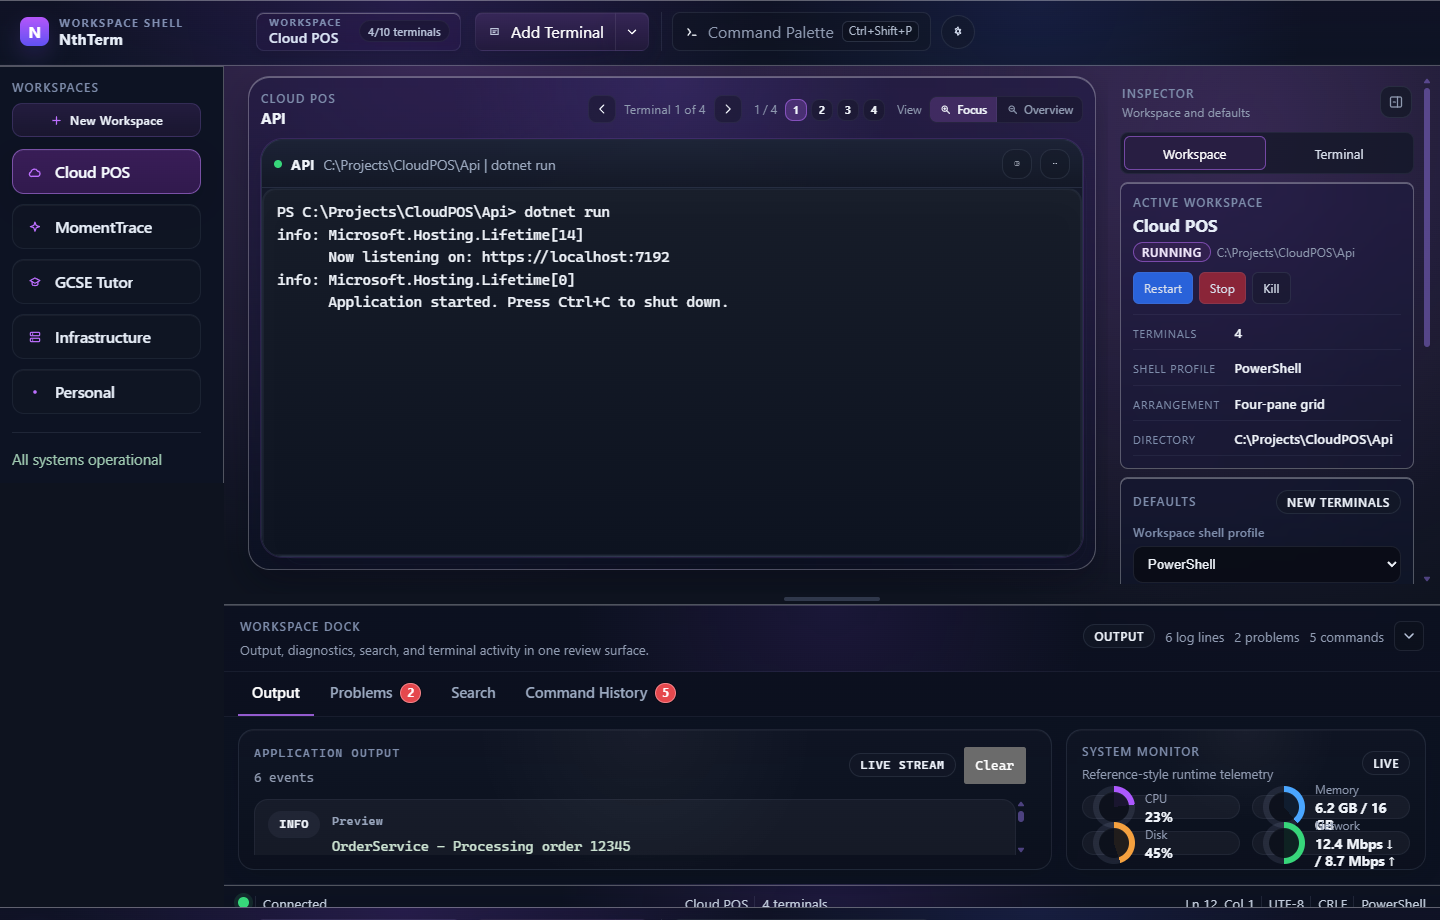
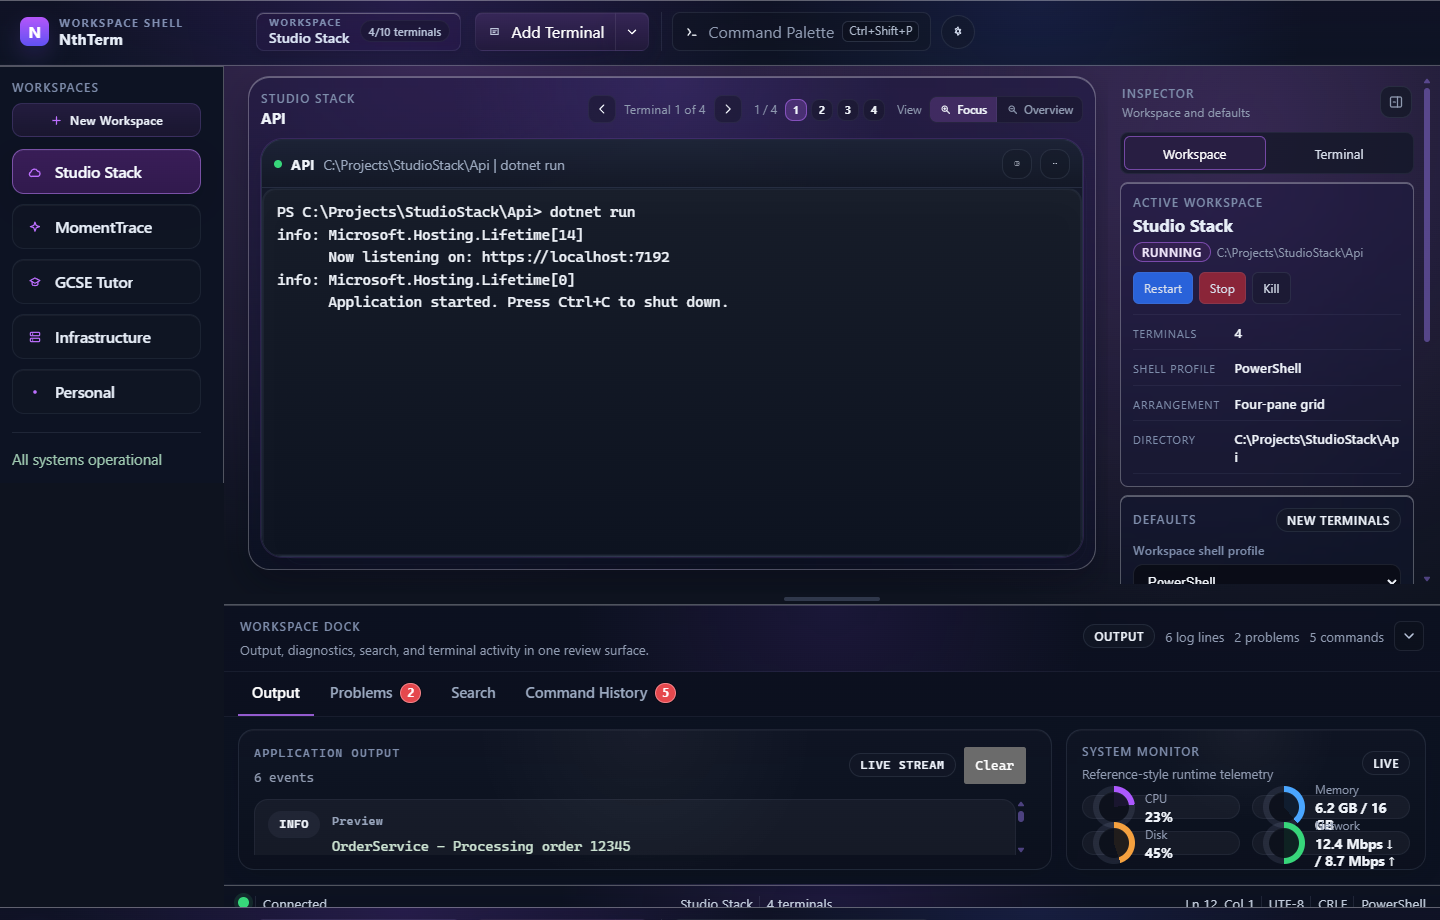
Replace Cloud POS preview branding with Studio Stack.
Update reference-preview seeding and landing Focus/Overview screenshots so marketing no longer shows a work project name.

diff --git a/src/app/workspace/workspace-runtime.service.ts b/src/app/workspace/workspace-runtime.service.ts
@@ -757,7 +757,7 @@ export class WorkspaceRuntimeService {
           return 'main • 7192';
         case 'npm start':
           return 'main • 4200';
-        case 'docker exec -it cloudpos-db psql -U postgres':
+        case 'docker exec -it studio-db psql -U postgres':
           return 'local • 5432';
         case 'docker compose ps':
           return 'up • 4 containers';
@@ -801,7 +801,7 @@ export class WorkspaceRuntimeService {
     switch (terminal.id) {
       case 'terminal-1':
         return [
-          'PS C:\\Projects\\CloudPOS\\Api> dotnet run',
+          'PS C:\\Projects\\StudioStack\\Api> dotnet run',
           'info: Microsoft.Hosting.Lifetime[14]',
           '      Now listening on: https://localhost:7192',
           'info: Microsoft.Hosting.Lifetime[0]',
@@ -809,21 +809,21 @@ export class WorkspaceRuntimeService {
         ].join('\n');
       case 'terminal-2':
         return [
-          'PS C:\\Projects\\CloudPOS\\Angular> npm start',
+          'PS C:\\Projects\\StudioStack\\Angular> npm start',
           '> ng serve',
           '** Angular Live Development Server is listening on localhost:4200 **',
         ].join('\n');
       case 'terminal-3':
         return [
-          'PS C:\\> docker exec -it cloudpos-db psql -U postgres',
+          'PS C:\\> docker exec -it studio-db psql -U postgres',
           'postgres=# \\dt',
           '(4 rows)',
         ].join('\n');
       case 'terminal-4':
         return [
-          'PS C:\\Projects\\CloudPOS> docker compose ps',
-          'api       cloudpos-api       Up 4 mins   0.0.0.0:5192->5192',
-          'angular   cloudpos-angular   Up 4 mins   0.0.0.0:4200->4200',
+          'PS C:\\Projects\\StudioStack> docker compose ps',
+          'api       studio-api       Up 4 mins   0.0.0.0:5192->5192',
+          'angular   studio-angular   Up 4 mins   0.0.0.0:4200->4200',
         ].join('\n');
       default:
         return `PS ${terminal.cwd}>`;
@@ -838,37 +838,37 @@ export class WorkspaceRuntimeService {
     this.previewMode = true;
     this.status = 'Reference preview mode';
     this.workspaces = [
-      { id: 'ws-cloud-pos', name: 'Cloud POS', icon: 'cloud', accent: 'violet' },
+      { id: 'ws-studio-stack', name: 'Studio Stack', icon: 'cloud', accent: 'violet' },
       { id: 'ws-moment-trace', name: 'MomentTrace', icon: 'spark', accent: 'slate' },
       { id: 'ws-gcse-tutor', name: 'GCSE Tutor', icon: 'cap', accent: 'slate' },
       { id: 'ws-infrastructure', name: 'Infrastructure', icon: 'server', accent: 'slate' },
       { id: 'ws-personal', name: 'Personal', icon: 'person', accent: 'slate' },
     ];
-    this.selectedWorkspaceId = 'ws-cloud-pos';
+    this.selectedWorkspaceId = 'ws-studio-stack';
 
     const previewTerminals = [
       {
         id: 'terminal-1',
         name: 'API',
-        cwd: 'C:\\Projects\\CloudPOS\\Api',
+        cwd: 'C:\\Projects\\StudioStack\\Api',
         startupCommand: 'dotnet run',
       },
       {
         id: 'terminal-2',
         name: 'Angular',
-        cwd: 'C:\\Projects\\CloudPOS\\Angular',
+        cwd: 'C:\\Projects\\StudioStack\\Angular',
         startupCommand: 'npm start',
       },
       {
         id: 'terminal-3',
         name: 'Database',
         cwd: 'C:\\',
-        startupCommand: 'docker exec -it cloudpos-db psql -U postgres',
+        startupCommand: 'docker exec -it studio-db psql -U postgres',
       },
       {
         id: 'terminal-4',
         name: 'Docker',
-        cwd: 'C:\\Projects\\CloudPOS',
+        cwd: 'C:\\Projects\\StudioStack',
         startupCommand: 'docker compose ps',
       },
     ].map((item) => ({
@@ -882,9 +882,9 @@ export class WorkspaceRuntimeService {
     }));
 
     const workspace: SavedWorkspace = {
-      id: 'ws-cloud-pos',
-      name: 'Cloud POS',
-      cwd: 'C:\\Projects\\CloudPOS\\Api',
+      id: 'ws-studio-stack',
+      name: 'Studio Stack',
+      cwd: 'C:\\Projects\\StudioStack\\Api',
       shell: 'powershell',
       templateId: 'full-stack',
       icon: 'cloud',

diff --git a/src/app/inspector/inspector-presenter.service.spec.ts b/src/app/inspector/inspector-presenter.service.spec.ts
@@ -9,7 +9,7 @@ describe('InspectorPresenterService', () => {
   const workspaceService = {
     previewMode: false,
     workingDirectory: 'C:/repo',
-    workspaceName: 'Cloud POS',
+    workspaceName: 'Studio Stack',
     activeWorkspace: { templateId: 'api' },
     layoutMode: 'grid-2',
     focusedPaneId: 'pane-1',
@@ -77,7 +77,7 @@ describe('InspectorPresenterService', () => {
     const items = service.getInspectorItems();
     const summary = service.getInspectorSummaryItems();
 
-    expect(items[0]).toEqual({ label: 'Workspace', value: 'Cloud POS' });
+    expect(items[0]).toEqual({ label: 'Workspace', value: 'Studio Stack' });
     expect(items.find((item) => item.label === 'Terminals')?.value).toBe('1');
     expect(items.find((item) => item.label === 'Last Saved')?.value).toBe(
       'ts:2026-07-01T08:15:00.000Z'
@@ -93,7 +93,7 @@ describe('InspectorPresenterService', () => {
     const items = service.getInspectorItems();
     const summary = service.getInspectorSummaryItems();
 
-    expect(items[0]).toEqual({ label: 'Workspace', value: 'Cloud POS' });
+    expect(items[0]).toEqual({ label: 'Workspace', value: 'Studio Stack' });
     expect(items.find((item) => item.label === 'Shell Profile')?.value).toBe('PowerShell');
     expect(items.find((item) => item.label === 'Last Saved')?.value).toBe(
       'ts:2026-07-01T08:15:00.000Z'

diff --git a/src/app/workspace/workspace-area.component.spec.ts b/src/app/workspace/workspace-area.component.spec.ts
@@ -23,9 +23,9 @@ describe('WorkspaceAreaComponent', () => {
   };
 
   const workspaceService = {
-    selectedWorkspace: 'Cloud POS',
+    selectedWorkspace: 'Studio Stack',
     selectedWorkspaceId: 'workspace-1',
-    workspaceName: 'Cloud POS',
+    workspaceName: 'Studio Stack',
     terminals: [runtimeTerminal],
     layoutMode: 'grid-2',
     paneResizeMode: null,
@@ -88,7 +88,7 @@ describe('WorkspaceAreaComponent', () => {
       { value: 'cmd', label: 'Command Prompt' },
       { value: 'wsl:Ubuntu', label: 'WSL: Ubuntu' },
     ],
-    getCommandHistorySource: () => 'Cloud POS • API Server',
+    getCommandHistorySource: () => 'Studio Stack • API Server',
   };
 
   const terminalService = {
@@ -144,7 +144,7 @@ describe('WorkspaceAreaComponent', () => {
             { label: 'Recovery', value: 'Live session' },
           ]
         : [
-            { label: 'Workspace', value: 'Cloud POS' },
+            { label: 'Workspace', value: 'Studio Stack' },
             { label: 'Directory', value: 'C:/repo' },
             { label: 'Shell Profile', value: 'PowerShell' },
             { label: 'Terminals', value: '1' },

diff --git a/src/app/reference/reference-review-content.service.ts b/src/app/reference/reference-review-content.service.ts
@@ -105,7 +105,7 @@ export class ReferenceReviewContentService {
         tabTitle: 'API',
         paneId: 'pane-1',
         shell: 'PowerShell 7.4.2',
-        cwd: 'C:\\Projects\\CloudPOS\\Api',
+        cwd: 'C:\\Projects\\StudioStack\\Api',
         status: 'running',
         reason: 'Session attached',
         startedAt,
@@ -120,7 +120,7 @@ export class ReferenceReviewContentService {
         tabTitle: 'Angular',
         paneId: 'pane-2',
         shell: 'PowerShell 7.4.2',
-        cwd: 'C:\\Projects\\CloudPOS\\Angular',
+        cwd: 'C:\\Projects\\StudioStack\\Angular',
         status: 'running',
         reason: 'Session attached',
         startedAt,
@@ -214,7 +214,7 @@ export class ReferenceReviewContentService {
     return {
       id: 'preview-session-api',
       pid: 18452,
-      cwd: 'C:\\Projects\\CloudPOS\\Api',
+      cwd: 'C:\\Projects\\StudioStack\\Api',
       shell: 'PowerShell 7.4.2',
       status: 'running',
       startedAt: new Date(Date.now() - 12 * 60 * 1000).toISOString(),

diff --git a/src/app/shell-toolbar/shell-toolbar.component.spec.ts b/src/app/shell-toolbar/shell-toolbar.component.spec.ts
@@ -17,8 +17,8 @@ describe('ShellToolbarComponent', () => {
         {
           provide: WorkspaceRuntimeService,
           useValue: {
-            selectedWorkspace: 'Cloud POS',
-            workspaceName: 'Cloud POS',
+            selectedWorkspace: 'Studio Stack',
+            workspaceName: 'Studio Stack',
             layoutMode: 'grid-2x2',
             terminals: activeTerminals,
             getActiveTabTerminals: () => activeTerminals,
@@ -123,7 +123,7 @@ describe('ShellToolbarComponent', () => {
 
     expect(summary).toContain('1/10 terminal');
     expect(context).toContain('Workspace');
-    expect(context).toContain('Cloud POS');
+    expect(context).toContain('Studio Stack');
     expect(context).toContain('1/10 terminal');
     expect(context).not.toContain('Tab');
   });

diff --git a/src/app/command-palette/command-palette.service.spec.ts b/src/app/command-palette/command-palette.service.spec.ts
@@ -17,7 +17,7 @@ describe('CommandPaletteService', () => {
     workspace = TestBed.inject(WorkspaceRuntimeService);
     utility = TestBed.inject(UtilityPanelService);
 
-    workspace.workspaces = [{ id: 'ws-1', name: 'Cloud POS', icon: 'cloud', accent: 'violet' }];
+    workspace.workspaces = [{ id: 'ws-1', name: 'Studio Stack', icon: 'cloud', accent: 'violet' }];
     workspace.terminals = [
       {
         id: 'terminal-1',
@@ -47,7 +47,7 @@ describe('CommandPaletteService', () => {
   });
 
   it('builds search result groups for workspaces, terminals, and commands', () => {
-    utility.searchQuery = 'cloud';
+    utility.searchQuery = 'studio';
     const groups = service.getSearchResultGroups();
     expect(groups.some((group) => group.label === 'Workspaces')).toBeTrue();
 

diff --git a/src/app/bottom-dock/bottom-dock.component.spec.ts b/src/app/bottom-dock/bottom-dock.component.spec.ts
@@ -93,7 +93,7 @@ describe('BottomDockComponent', () => {
             getSearchResultGroups: () => [
               {
                 label: 'Workspaces',
-                items: [{ id: 'ws-1', title: 'Cloud POS', detail: 'Workspace match' }],
+                items: [{ id: 'ws-1', title: 'Studio Stack', detail: 'Workspace match' }],
               },
             ],
             executeSearchResult: async () => undefined,
@@ -159,7 +159,7 @@ describe('BottomDockComponent', () => {
 
     expect(text).toContain('Workspace Search');
     expect(text).toContain('1 matches for "cloud"');
-    expect(text).toContain('Cloud POS');
+    expect(text).toContain('Studio Stack');
   });
 
   it('renders command history entries on the command history panel', () => {

diff --git a/src/app/reference/reference-review-content.service.spec.ts b/src/app/reference/reference-review-content.service.spec.ts
@@ -31,11 +31,11 @@ describe('ReferenceReviewContentService', () => {
     system = TestBed.inject(SystemMonitorService);
   });
 
-  it('seeds the full Cloud POS review state for preview mode', () => {
+  it('seeds the full Studio Stack review state for preview mode', () => {
     service.applyFullPreviewState(workspace, utility, system, terminal);
 
     expect(workspace.previewMode).toBeTrue();
-    expect(workspace.workspaceName).toBe('Cloud POS');
+    expect(workspace.workspaceName).toBe('Studio Stack');
     expect(workspace.terminals.length).toBe(4);
     expect(workspace.sessionHistory.length).toBe(2);
     expect(workspace.recoverySnapshot.lastStopReason).toBe('Clean restore');

diff --git a/src/app/left-rail/left-rail.component.spec.ts b/src/app/left-rail/left-rail.component.spec.ts
@@ -7,7 +7,7 @@ import { LeftRailComponent } from './left-rail.component';
 describe('LeftRailComponent', () => {
   const workspaceService = {
     workspaces: [
-      { id: 'ws-1', name: 'Cloud POS', icon: 'cloud', accent: 'violet' },
+      { id: 'ws-1', name: 'Studio Stack', icon: 'cloud', accent: 'violet' },
       { id: 'ws-2', name: 'MomentTrace', icon: 'spark', accent: 'blue' },
     ],
     editingWorkspaceId: null,

diff --git a/ai/decisions.md b/ai/decisions.md
@@ -69,13 +69,13 @@
 - Pane layout snapshot entries now carry lightweight per-pane session metadata so workspace persistence records PID/status/timestamps per pane without introducing a separate session table yet.
 
 ## 2026-07-02
-- `#115` reference review content now lives in `ReferenceReviewContentService`, centralizing the Cloud POS sessions, dock logs, problems, telemetry, session history, recovery metadata, environment variables, and live-session preview context used for screenshot-ready reviews.
+- `#115` reference review content now lives in `ReferenceReviewContentService`, centralizing the Studio Stack sessions, dock logs, problems, telemetry, session history, recovery metadata, environment variables, and live-session preview context used for screenshot-ready reviews.
 - Preview and supplemental Electron seed paths both reuse the same reference content service so browser and desktop demos stay aligned.
 - `#114` bottom dock alignment now keeps the Output tab split between application logs and a persistent system monitor, with conic-gradient ring gauges, memory totals, and download/upload network formatting aligned to the reference.
 - Preview output lines omit timestamp prefixes so the dock reads like the reference service log stream during design reviews.
 - `#114` follow-up polish adds a dedicated workspace-dock header and denser panel summaries so the bottom band reads like a composed review surface instead of a plain tabbed utility tray.
 - Output, problems, search, and command-history entries now share a more consistent card language, while the system monitor keeps the same telemetry data but presents it with stronger reference-like emphasis.
-- `#111` center workspace composition now uses a staged workspace surface with tab strip metadata, tone-aware terminal cards, running-state pills, pane meta lines, and preview-mode terminal content aligned to the reference Cloud POS layout.
+- `#111` center workspace composition now uses a staged workspace surface with tab strip metadata, tone-aware terminal cards, running-state pills, pane meta lines, and preview-mode terminal content aligned to the reference Studio Stack layout.
 - Pane status/meta presentation moved into `WorkspaceRuntimeService` so the center grid stays data-driven instead of hard-coding per-tab strings in the template.
 - Terminal input is sanitized in the renderer before forwarding to the PTY so focus-reporting and bracketed-paste control sequences do not pollute command history or swallow typed commands.
 - Preview seeding and live workspace startup now follow separate paths so a real restored workspace does not remain stuck in preview mode after launch.

diff --git a/ai/stories.md b/ai/stories.md
@@ -4,9 +4,11 @@
 - [ ] Authenticode signing / Apple notarization / `electron-updater` — deferred until certificates exist
 
 ## Done
+- [x] Public “How to use” docs page on GitHub Pages (`site/docs.html`) — install/RC, workspaces, Focus/Overview, inspector, dock, shortcuts, unsigned note; linked from landing nav/footer (2026-08-09)
 - [x] Landing page real Focus/Overview screenshots (2026-08-09)
-  - [x] Capture Cloud POS stacked Focus + Overview from Angular reference preview (`site/media/focus.png`, `site/media/overview.png`)
+  - [x] Capture Studio Stack Focus + Overview from Angular reference preview (`site/media/focus.png`, `site/media/overview.png`)
   - [x] Replace hero and showcase CSS mocks in `site/index.html` with product shots; feature triad mini-mocks kept
+  - [x] Rename reference-preview demo workspace from Cloud POS → Studio Stack (paths `C:\Projects\StudioStack\…`)
 - [x] Publish GitHub Release for `v0.1.0-rc.2` (PR #1 merged; **Publish GitHub Release** run [31278290064](https://github.com/nwaoga/NthTerm/actions/runs/31278290064) from artifact run `30753822270`)
   - [x] https://github.com/nwaoga/NthTerm/releases/tag/v0.1.0-rc.2 lists Win + macOS assets; landing-page download CTAs resolve
 - [x] [#139](https://dev.azure.com/blakboi/NthTerm/_workitems/edit/139) Smoke-test unsigned macOS dmg/zip from `release:mac` (ADO Closed 2026-08-09)

diff --git a/ai/prompts.md b/ai/prompts.md
@@ -14,7 +14,7 @@
 
 ## Current Prompt Focus
 - **Milestone complete:** `0.1.0-rc.2` is tagged, verified, and published. Landing-page download links resolve.
-- Landing page uses real Focus/Overview product shots from `site/media/` (Angular reference preview captures); feature triad still uses CSS mini-mocks.
+- Landing page uses real Focus/Overview product shots from `site/media/` (Angular reference preview — Studio Stack demo); feature triad still uses CSS mini-mocks.
 - #138/#139/#140/#141 Closed (ADO + repo). PR #1 and cloud setup PR #2 merged to `main`.
 - Public RC page: `https://nwaoga.github.io/NthTerm/` (`site/` via GitHub Pages — static marketing only, not the Angular app).
 - Release: https://github.com/nwaoga/NthTerm/releases/tag/v0.1.0-rc.2 (unsigned Win + macOS assets).
